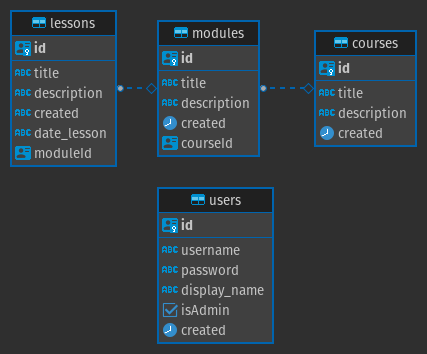
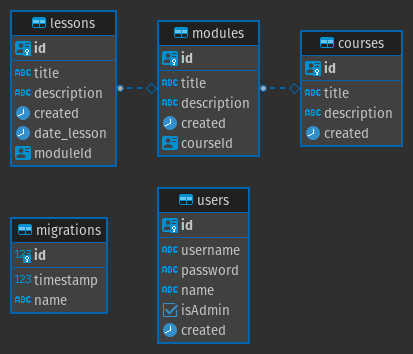
feat: generate initial migration

diff --git a/api/src/migrations/1667871644083-migrations.ts b/api/src/migrations/1667871644083-migrations.ts
@@ -1,0 +1,24 @@
+import { MigrationInterface, QueryRunner } from "typeorm";
+
+export class migrations1667871644083 implements MigrationInterface {
+    name = 'migrations1667871644083'
+
+    public async up(queryRunner: QueryRunner): Promise<void> {
+        await queryRunner.query(`CREATE TABLE "lessons" ("id" uuid NOT NULL DEFAULT uuid_generate_v4(), "title" character varying NOT NULL, "description" character varying NOT NULL, "created" TIMESTAMP NOT NULL, "date_lesson" TIMESTAMP NOT NULL, "moduleId" uuid, CONSTRAINT "PK_9b9a8d455cac672d262d7275730" PRIMARY KEY ("id"))`);
+        await queryRunner.query(`CREATE TABLE "modules" ("id" uuid NOT NULL DEFAULT uuid_generate_v4(), "title" character varying NOT NULL, "description" character varying NOT NULL, "created" TIMESTAMP NOT NULL, "courseId" uuid, CONSTRAINT "PK_7dbefd488bd96c5bf31f0ce0c95" PRIMARY KEY ("id"))`);
+        await queryRunner.query(`CREATE TABLE "courses" ("id" uuid NOT NULL DEFAULT uuid_generate_v4(), "title" character varying NOT NULL, "description" character varying NOT NULL, "created" TIMESTAMP NOT NULL, CONSTRAINT "PK_3f70a487cc718ad8eda4e6d58c9" PRIMARY KEY ("id"))`);
+        await queryRunner.query(`CREATE TABLE "users" ("id" uuid NOT NULL DEFAULT uuid_generate_v4(), "username" character varying NOT NULL, "password" character varying NOT NULL, "name" character varying NOT NULL, "isAdmin" boolean NOT NULL, "created" TIMESTAMP NOT NULL, CONSTRAINT "PK_a3ffb1c0c8416b9fc6f907b7433" PRIMARY KEY ("id"))`);
+        await queryRunner.query(`ALTER TABLE "lessons" ADD CONSTRAINT "FK_16e7969589c0b789d9868782259" FOREIGN KEY ("moduleId") REFERENCES "modules"("id") ON DELETE NO ACTION ON UPDATE NO ACTION`);
+        await queryRunner.query(`ALTER TABLE "modules" ADD CONSTRAINT "FK_83489b37212a5a547bde8f89014" FOREIGN KEY ("courseId") REFERENCES "courses"("id") ON DELETE NO ACTION ON UPDATE NO ACTION`);
+    }
+
+    public async down(queryRunner: QueryRunner): Promise<void> {
+        await queryRunner.query(`ALTER TABLE "modules" DROP CONSTRAINT "FK_83489b37212a5a547bde8f89014"`);
+        await queryRunner.query(`ALTER TABLE "lessons" DROP CONSTRAINT "FK_16e7969589c0b789d9868782259"`);
+        await queryRunner.query(`DROP TABLE "users"`);
+        await queryRunner.query(`DROP TABLE "courses"`);
+        await queryRunner.query(`DROP TABLE "modules"`);
+        await queryRunner.query(`DROP TABLE "lessons"`);
+    }
+
+}

diff --git a/api/src/entities/module.entity.ts b/api/src/entities/module.entity.ts
@@ -25,7 +25,7 @@ export class Module {
   @ManyToOne((type) => Course, (course) => course.modules)
   course: Course;
 
-  @OneToMany((type) => Lesson, (lesson) => lesson.modules, {
+  @OneToMany((type) => Lesson, (lesson) => lesson.module, {
     eager: true,
   })
   lesson: Lesson[];
